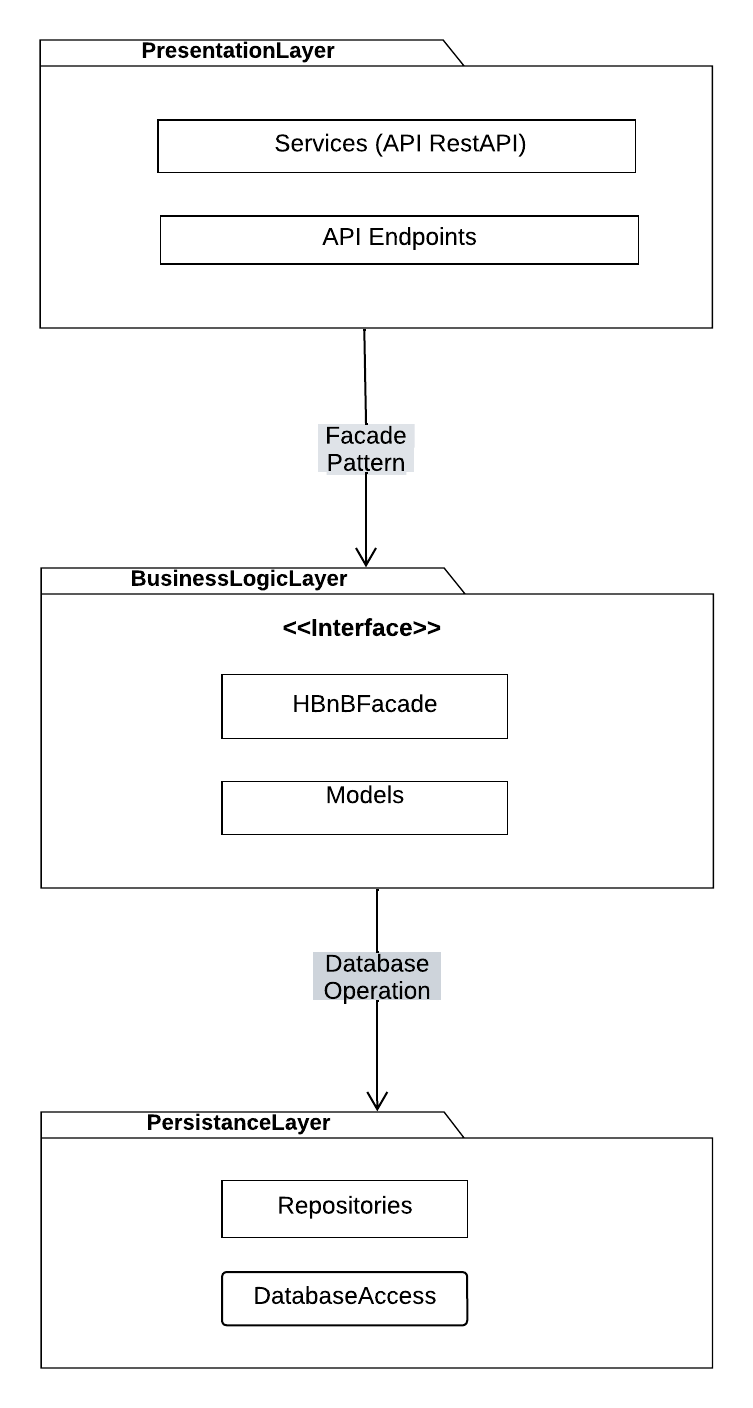
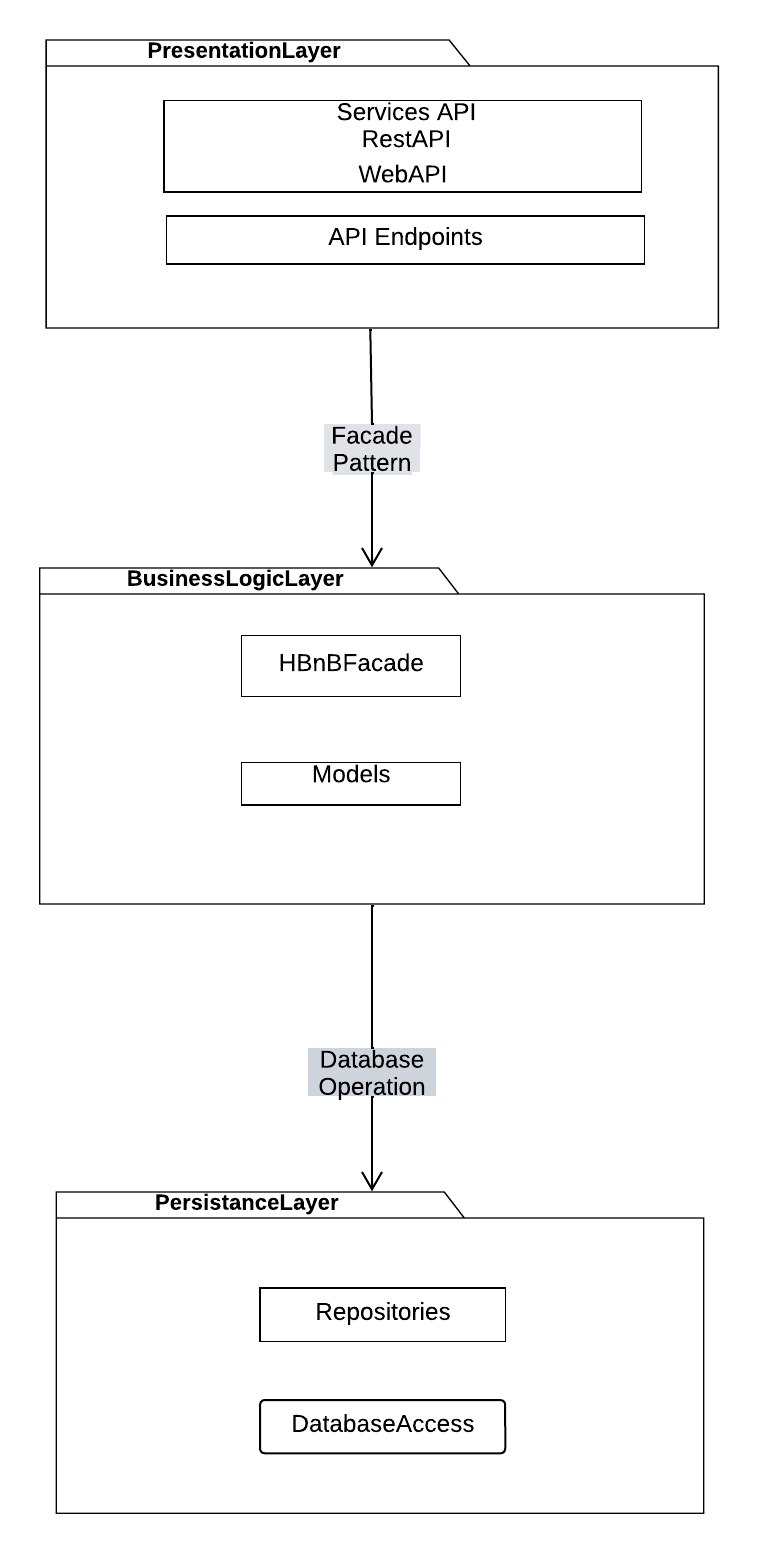
ajout des diagramme

diff --git a/part1/README.md b/part1/README.md
@@ -116,7 +116,7 @@ This diagram shows:
 - the direction of data flow,
 - the central position of the Facade.
 
-![HBNB UML Task 0](UML/task0.png)
+![HBNB UML Task 0](UML/task1.png)
 
 ---
 
